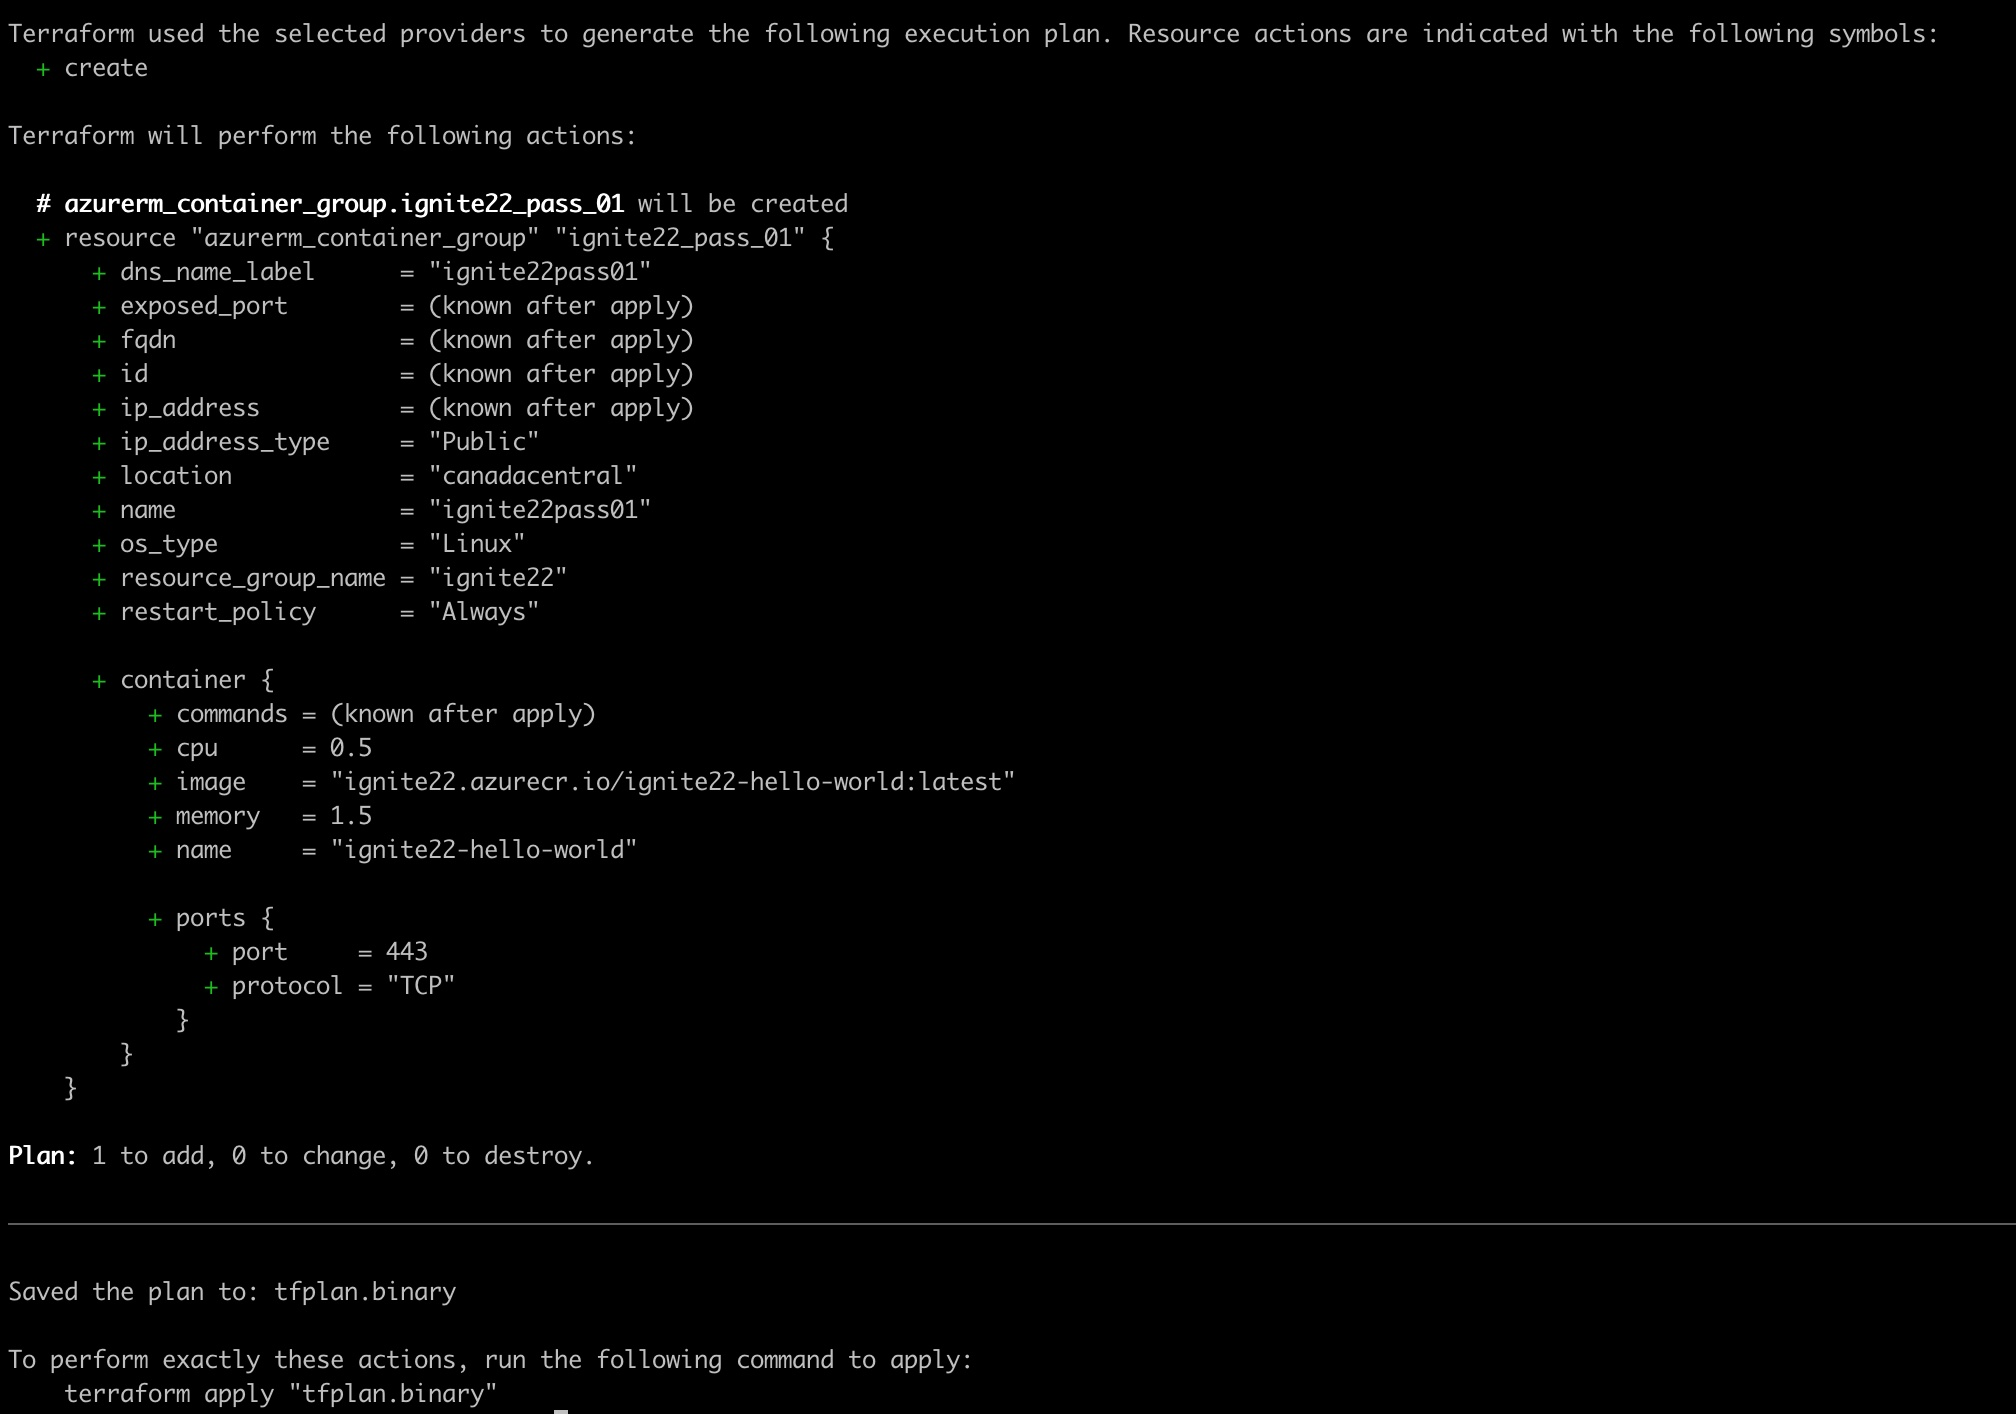
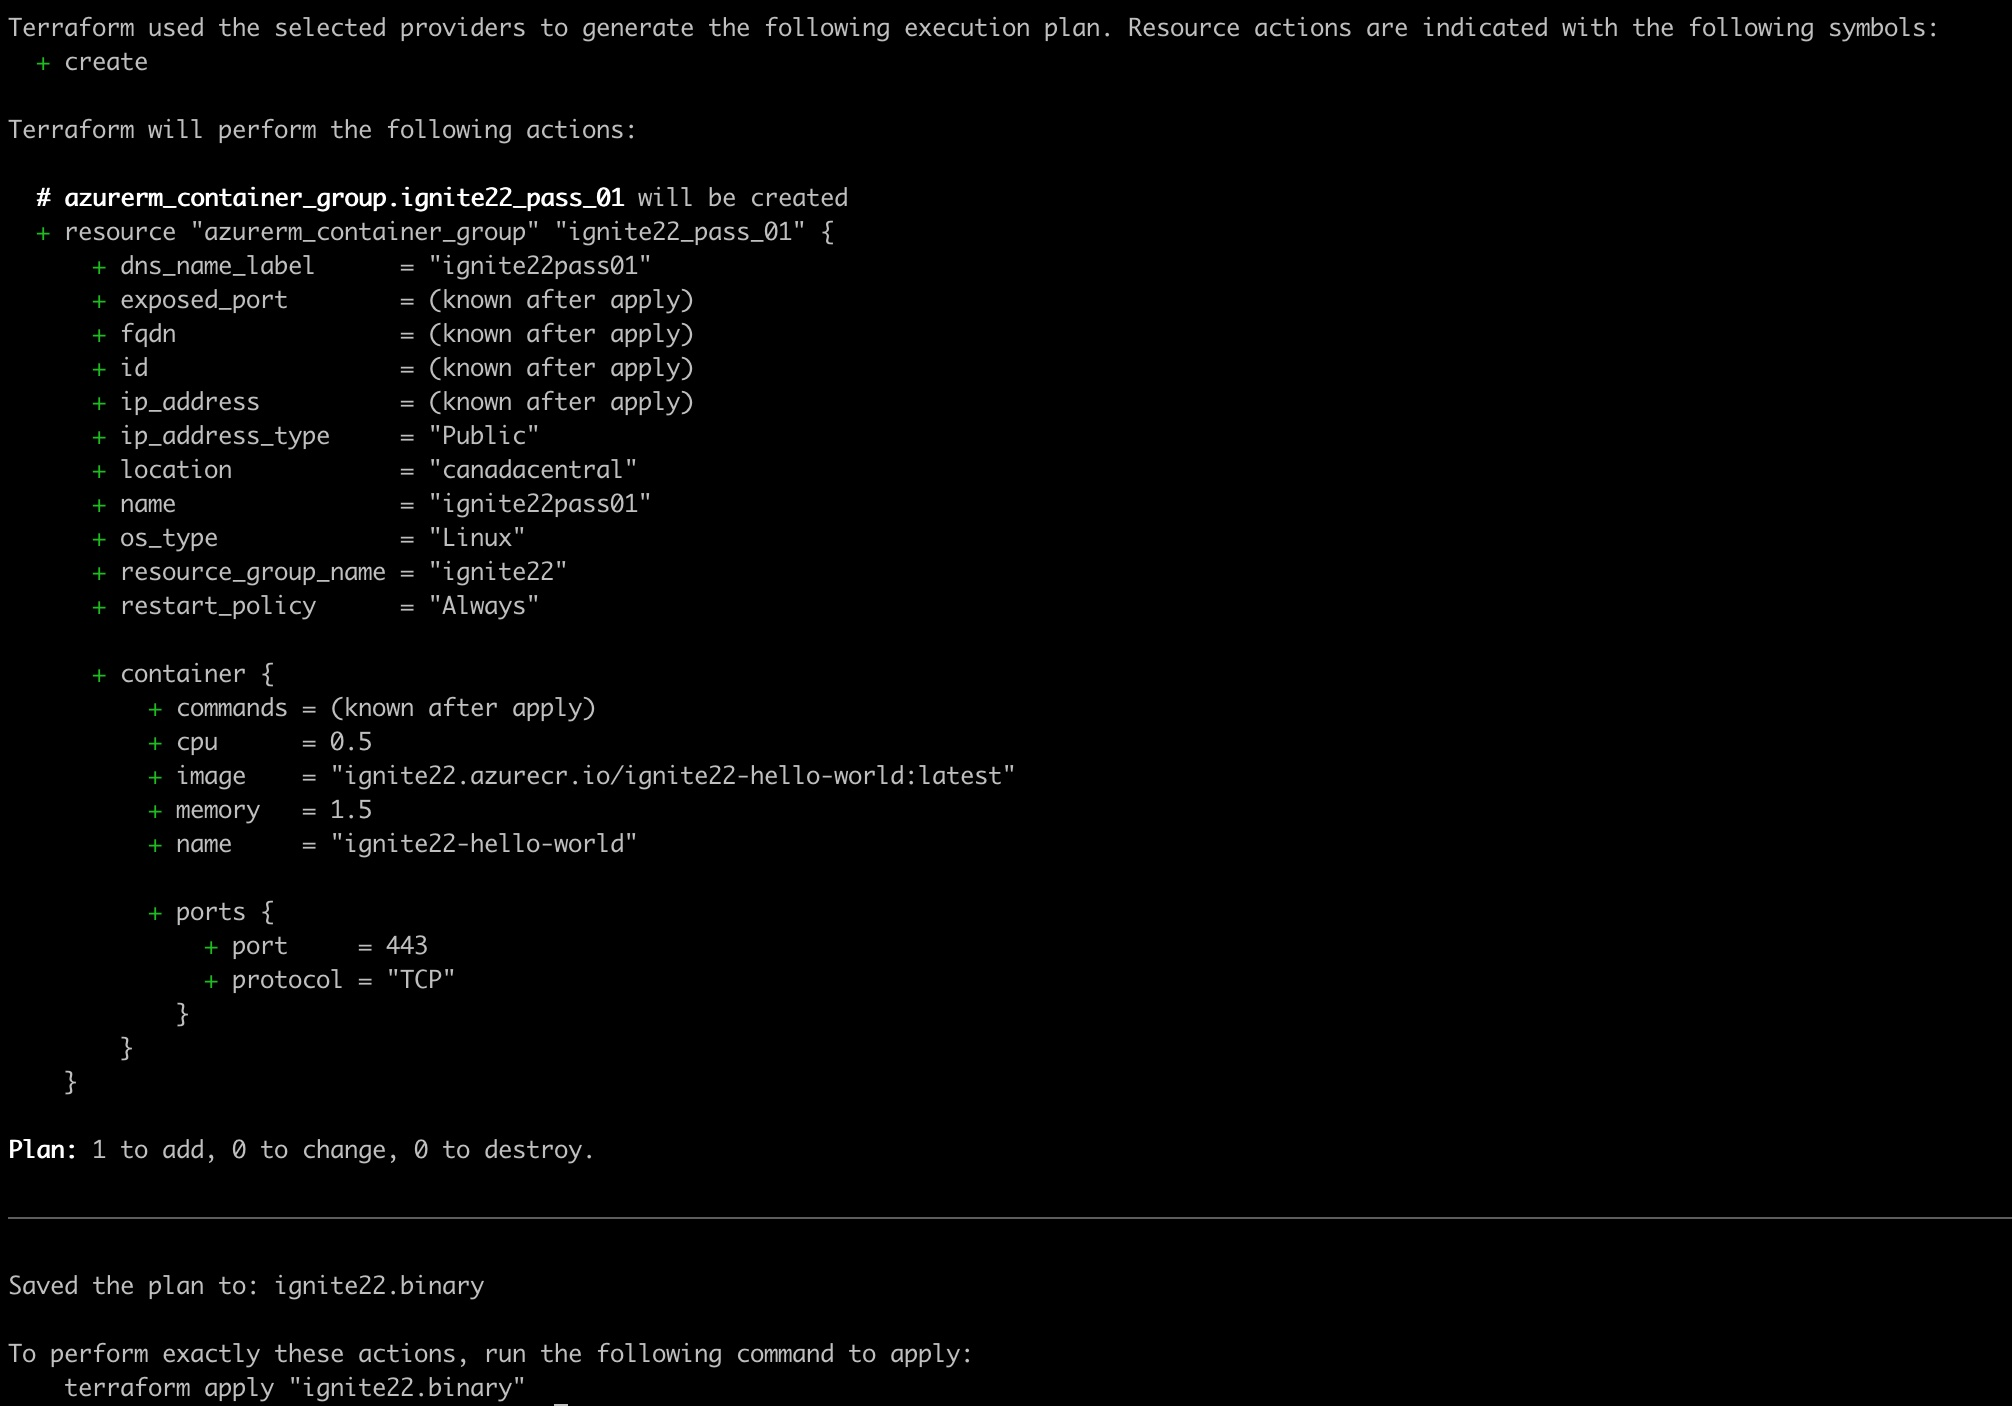
2022-10-06

diff --git a/README.md b/README.md
@@ -177,7 +177,7 @@ Some scenarios may require you to scan a Terraform Plan file to make sure scans 
 
 This requires to create a Terraform Plan file in JSON format as described [here](https://www.checkov.io/7.Scan%20Examples/Terraform%20Plan%20Scanning.html).
 ```console
-terraform plan --out tfplan.binary && terraform show -json tfplan.binary | jq . > tfplan.json
+terraform plan --out ignite22.binary && terraform show -json ignite22.binary | jq . > ignite22.json
 ```
 
 <details><summary>output</summary>
@@ -189,7 +189,7 @@ terraform plan --out tfplan.binary && terraform show -json tfplan.binary | jq . 
 
 The resulting JSON can then be scanned with Checkov:
 ```console
-checkov -f tfplan.json --external-checks-dir . -c ignite22 --compact 
+checkov -f ignite22.json --external-checks-dir . -c ignite22 --compact 
 ```
 
 <details><summary>output</summary>
